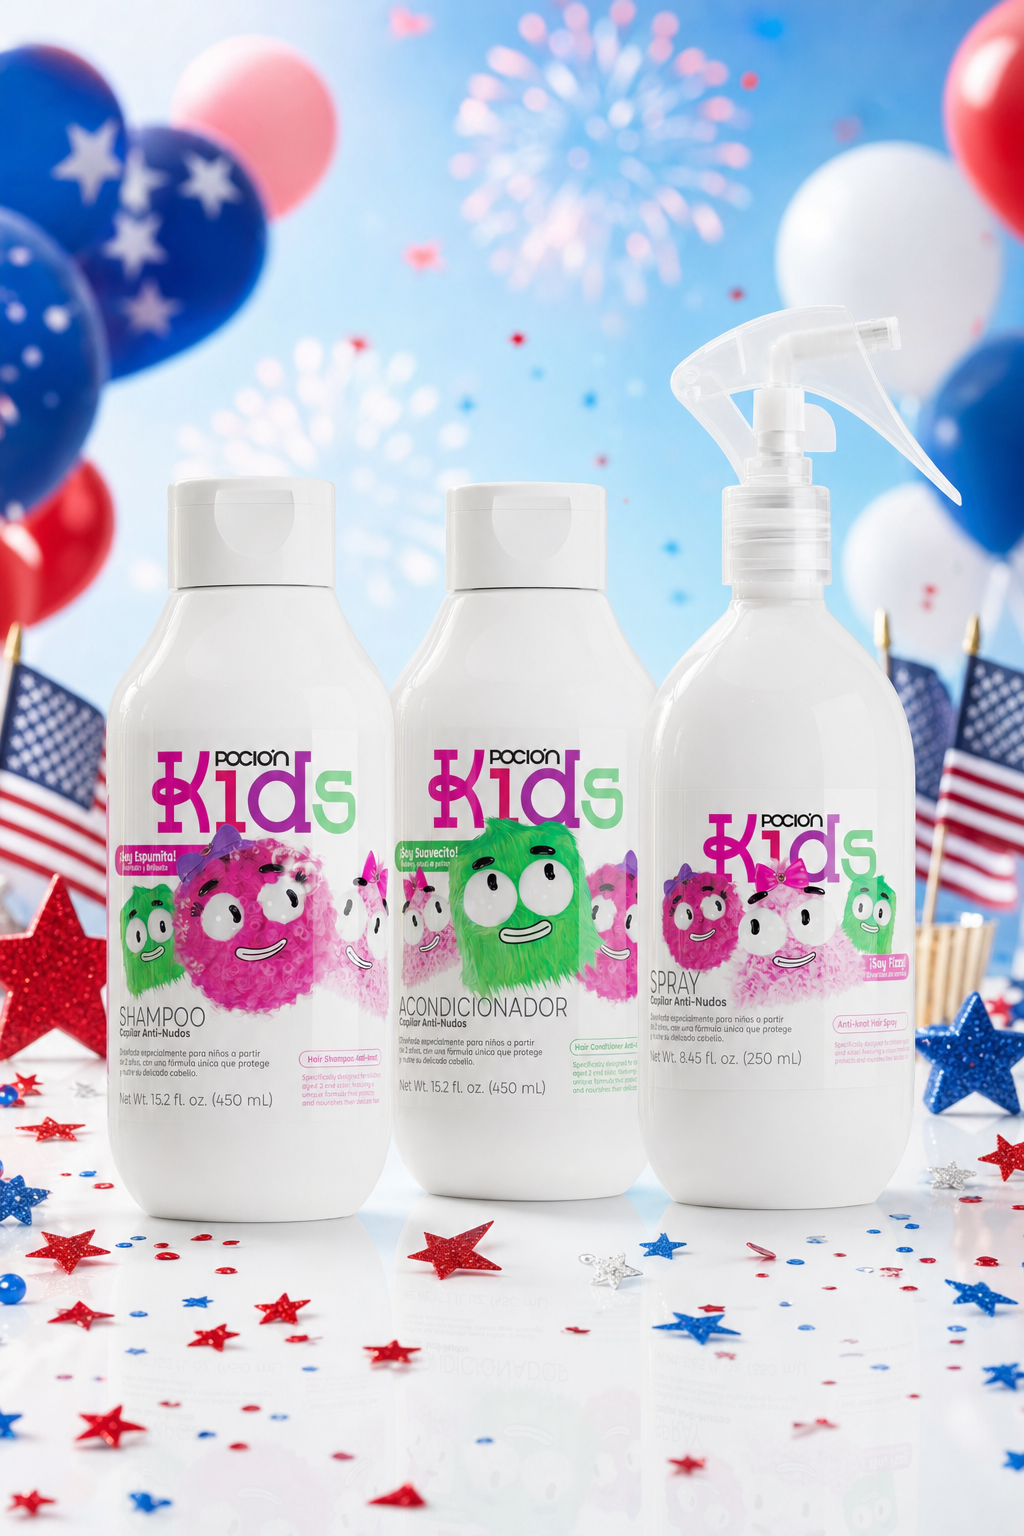
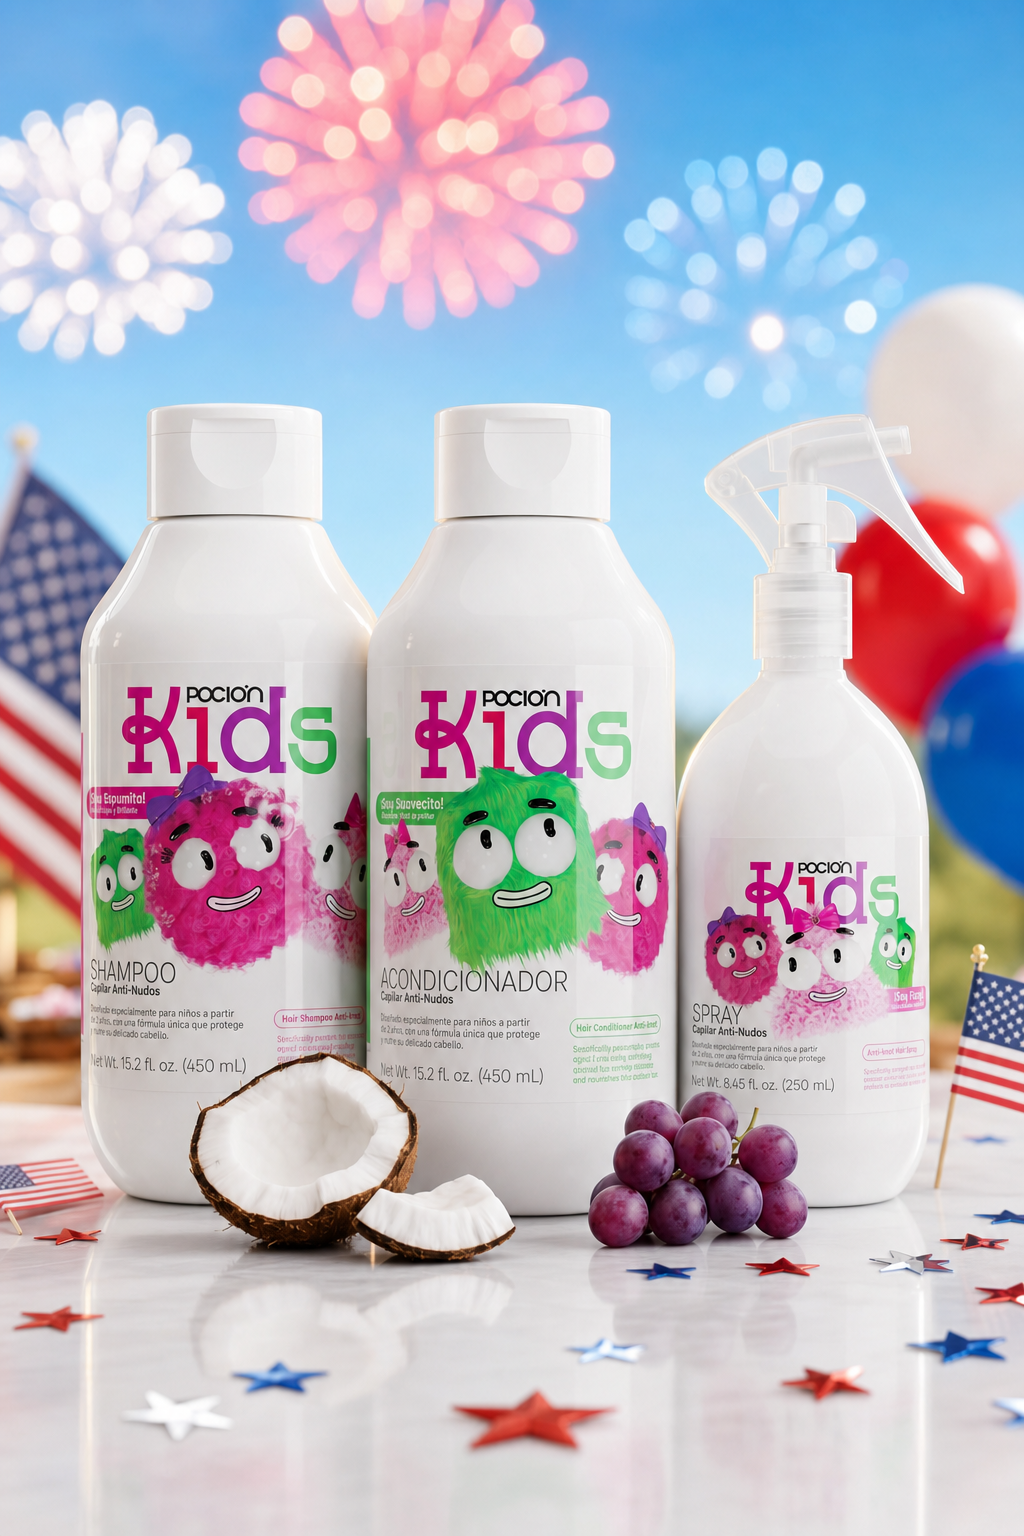
Hero overlay layout + regenerated product imagery
Full-bleed hero with copy overlaid left (Page E pattern, bright F style);
mobile falls back to centered copy + cropped banner. Regenerated 4 kit
shots + hero with GPT Image 2 using Page E compositions as geometry refs
so bottle shapes/sizes match the real products; B8 kit kept as-is.

diff --git a/index.html b/index.html
@@ -98,15 +98,13 @@ footer .logo img{height:28px;filter:brightness(0) invert(1)}
 .btn.ghost{background:rgba(255,255,255,.7);color:var(--navy);border:1.5px solid var(--navy);padding:15px 30px}
 .btn.ghost:hover{background:var(--navy);color:#fff}
 
-/* ---------- HERO ---------- */
-.hero{position:relative;overflow:hidden;isolation:isolate;text-align:center;
+/* ---------- HERO (full-bleed image, copy overlaid left) ---------- */
+.hero{position:relative;overflow:hidden;isolation:isolate;
   background:
-    radial-gradient(120% 90% at 50% -10%,rgba(30,94,255,.14),transparent 55%),
-    radial-gradient(70% 60% at 12% 20%,rgba(224,22,43,.10),transparent 60%),
-    radial-gradient(70% 60% at 88% 16%,rgba(255,184,28,.12),transparent 60%),
-    linear-gradient(180deg,#FFFFFF 0%,var(--ice) 100%)}
-.hero-grid{position:relative;z-index:2;display:flex;flex-direction:column;align-items:center;padding:64px 0 0}
-.hero-copy{position:relative;max-width:880px}
+    linear-gradient(95deg, rgba(247,250,255,.97) 0%, rgba(247,250,255,.9) 30%, rgba(247,250,255,.5) 48%, rgba(247,250,255,0) 64%),
+    url('images/lux/hero-full.png?v=f2') center right / cover no-repeat, var(--ice)}
+.hero-grid{position:relative;z-index:2;display:flex;align-items:center;min-height:min(82vh,760px);padding:50px 0}
+.hero-copy{position:relative;width:56%;max-width:620px;text-align:left}
 .eyebrow{display:inline-flex;align-items:center;gap:.55rem;background:#fff;border:1.5px solid var(--blue);color:var(--blue);padding:9px 20px;border-radius:99px;font-weight:700;font-size:.7rem;letter-spacing:.2em;text-transform:uppercase;box-shadow:0 8px 22px rgba(30,94,255,.15)}
 .hero h1{font-size:clamp(1.6rem,5.4vw,4rem);margin:26px 0 0;color:var(--navy);font-weight:900;line-height:1.06}
 .hero h1 em{background:var(--grad-usa);background-size:200% 100%;-webkit-background-clip:text;background-clip:text;animation:shimmer 5s ease infinite}
@@ -115,20 +113,29 @@ footer .logo img{height:28px;filter:brightness(0) invert(1)}
 .sale-badge b{font-family:'Unbounded';font-weight:700;font-size:1.2rem;color:#fff}
 .sale-badge small{font-weight:600;font-size:.76rem;color:rgba(255,255,255,.85);text-transform:uppercase;letter-spacing:.08em}
 .sale-badge .sb-star{color:var(--gold-soft);font-size:1.05rem}
-.hero .sub{font-size:clamp(1.02rem,1.5vw,1.16rem);font-weight:400;margin:22px auto 0;max-width:52ch;line-height:1.7;color:var(--muted)}
-.hero-cta{display:flex;gap:14px;flex-wrap:wrap;margin-top:30px;justify-content:center}
-.hero-rate{display:flex;align-items:center;gap:12px;margin-top:24px;font-weight:600;justify-content:center}
+.hero .sub{font-size:clamp(1.02rem,1.5vw,1.16rem);font-weight:400;margin:22px 0 0;max-width:46ch;line-height:1.7;color:var(--muted)}
+.hero-cta{display:flex;gap:14px;flex-wrap:wrap;margin-top:30px}
+.hero-rate{display:flex;align-items:center;gap:12px;margin-top:24px;font-weight:600}
 .hero-rate .stars{color:var(--gold);font-size:1rem;letter-spacing:3px}
 .hero-rate b{font-size:1rem;color:var(--navy)}
 .hero-rate small{display:block;font-weight:400;font-size:.76rem;color:var(--muted)}
-.hero-banner{position:relative;z-index:2;width:min(1080px,94vw);margin:42px auto 0;border-radius:var(--r) var(--r) 0 0;overflow:hidden;border:1px solid var(--line);border-bottom:none;box-shadow:var(--shadow)}
+.hero-banner{display:none}
 .hero-banner img{display:block;width:100%;height:auto}
 /* floating parallax stars */
 .par{position:absolute;z-index:1;font-size:1.5rem;opacity:.85;pointer-events:none;animation:float 7s ease-in-out infinite;will-change:transform;filter:drop-shadow(0 6px 14px rgba(10,49,97,.18))}
 .par.s2{animation-delay:1.6s}.par.s3{animation-delay:3.1s}.par.s4{animation-delay:4.5s}
 @keyframes float{0%,100%{margin-top:0}50%{margin-top:-16px}}
 @media(max-width:860px){
-  .hero-grid{padding:46px 0 0}
+  .hero{background:
+    radial-gradient(120% 90% at 50% -10%,rgba(30,94,255,.14),transparent 55%),
+    radial-gradient(70% 60% at 12% 20%,rgba(224,22,43,.10),transparent 60%),
+    linear-gradient(180deg,#FFFFFF 0%,var(--ice) 100%)}
+  .hero-grid{flex-direction:column;text-align:center;min-height:auto;padding:46px 0}
+  .hero-copy{width:100%;max-width:none;text-align:center}
+  .hero-cta,.hero-rate{justify-content:center}
+  .hero .sub{margin-inline:auto}
+  .hero-banner{display:block;max-width:560px;margin:18px auto 0;border-radius:var(--r);overflow:hidden;box-shadow:var(--shadow-sm)}
+  .hero-banner img{width:100%;aspect-ratio:1.25;object-fit:cover;object-position:72% center}
   .par{display:none}
 }
 
@@ -541,11 +548,10 @@ footer .pay{background:transparent;border-color:rgba(255,255,255,.2);color:#9AA9
 
 <!-- HERO -->
 <section class="hero">
-  <span class="par" style="top:14%;left:7%" data-depth="30">🎆</span>
-  <span class="par s2" style="top:30%;left:14%" data-depth="18">⭐</span>
-  <span class="par s3" style="top:12%;right:9%" data-depth="26">🎇</span>
-  <span class="par s4" style="top:34%;right:15%" data-depth="14">⭐</span>
-  <span class="par s2" style="top:6%;left:46%" data-depth="10">🇺🇸</span>
+  <span class="par" style="top:10%;left:4%" data-depth="30">🎆</span>
+  <span class="par s2" style="top:58%;left:3%" data-depth="18">⭐</span>
+  <span class="par s3" style="top:12%;left:58%" data-depth="26">🎇</span>
+  <span class="par s4" style="top:7%;right:6%" data-depth="14">⭐</span>
   <div class="wrap hero-grid">
     <div class="hero-copy">
       <span class="eyebrow">★ The Star-Spangled Hair Event · July 2–5 ★</span>
@@ -561,9 +567,9 @@ footer .pay{background:transparent;border-color:rgba(255,255,255,.2);color:#9AA9
         <div><b>4.8 / 5</b><small>from 12,000+ real reviews</small></div>
       </div>
     </div>
-  </div>
-  <div class="hero-banner reveal">
-    <img src="images/lux/hero-full.png?v=f1" alt="The full La Poción collection under 4th of July fireworks">
+    <div class="hero-banner">
+      <img src="images/lux/hero-full.png?v=f2" alt="The full La Poción collection under 4th of July fireworks">
+    </div>
   </div>
 </section>
 
@@ -675,7 +681,7 @@ footer .pay{background:transparent;border-color:rgba(255,255,255,.2);color:#9AA9
       <!-- KIT 1 -->
       <article class="kit reveal" id="kit-5">
         <div class="kit-media"><div class="kit-badge">★ Best-Seller</div><div class="kit-num">01</div>
-          <div class="tilt"><img src="images/lux/kit-5piece.png?v=f1" alt="5-Piece Deep Repair Ritual"><div class="glare"></div></div></div>
+          <div class="tilt"><img src="images/lux/kit-5piece.png?v=f2" alt="5-Piece Deep Repair Ritual"><div class="glare"></div></div></div>
         <div class="kit-body">
           <span class="kit-tagline">The Headliner</span>
           <h3>5-Piece Deep Repair</h3>
@@ -706,7 +712,7 @@ footer .pay{background:transparent;border-color:rgba(255,255,255,.2);color:#9AA9
       <!-- KIT 2 -->
       <article class="kit reveal" id="kit-4">
         <div class="kit-media"><div class="kit-badge">Strength &amp; Growth</div><div class="kit-num">02</div>
-          <div class="tilt"><img src="images/lux/kit-4piece.png?v=f1" alt="4-Piece Strength & Growth Ritual"><div class="glare"></div></div></div>
+          <div class="tilt"><img src="images/lux/kit-4piece.png?v=f2" alt="4-Piece Strength & Growth Ritual"><div class="glare"></div></div></div>
         <div class="kit-body">
           <span class="kit-tagline">The Daily Anthem</span>
           <h3>4-Piece Strength &amp; Growth</h3>
@@ -737,7 +743,7 @@ footer .pay{background:transparent;border-color:rgba(255,255,255,.2);color:#9AA9
       <!-- KIT 3 -->
       <article class="kit reveal" id="kit-t">
         <div class="kit-media"><div class="kit-badge">Curls' Best Friend</div><div class="kit-num">03</div>
-          <div class="tilt"><img src="images/lux/kit-tongole.png?v=f1" alt="Tongolé Curl Reconstruction Ritual"><div class="glare"></div></div></div>
+          <div class="tilt"><img src="images/lux/kit-tongole.png?v=f2" alt="Tongolé Curl Reconstruction Ritual"><div class="glare"></div></div></div>
         <div class="kit-body">
           <span class="kit-tagline">Let Freedom Spring</span>
           <h3>Tongolé Curl Ritual</h3>
@@ -799,7 +805,7 @@ footer .pay{background:transparent;border-color:rgba(255,255,255,.2);color:#9AA9
       <!-- KIT 5 -->
       <article class="kit reveal" id="kit-k">
         <div class="kit-media"><div class="kit-badge">Tear-Free</div><div class="kit-num">05</div>
-          <div class="tilt"><img src="images/lux/kit-kids.png?v=f1" alt="Kids Tangle-Free Ritual"><div class="glare"></div></div></div>
+          <div class="tilt"><img src="images/lux/kit-kids.png?v=f2" alt="Kids Tangle-Free Ritual"><div class="glare"></div></div></div>
         <div class="kit-body">
           <span class="kit-tagline">The Family Picnic</span>
           <h3>Kids Tangle-Free</h3>
@@ -1010,11 +1016,11 @@ footer .pay{background:transparent;border-color:rgba(255,255,255,.2);color:#9AA9
         <p style="margin-top:8px;max-width:34ch">Colombia's #1 hair ritual, now shipping across the USA. Made with love. 🇨🇴</p>
       </div>
       <div class="foot-col"><h5>Shop</h5>
-        <a href="#kit-5" class="foot-shop"><img src="images/lux/kit-5piece.png?v=f1" alt="">Deep Repair</a>
-        <a href="#kit-4" class="foot-shop"><img src="images/lux/kit-4piece.png?v=f1" alt="">Strength &amp; Growth</a>
-        <a href="#kit-t" class="foot-shop"><img src="images/lux/kit-tongole.png?v=f1" alt="">Tongolé Curls</a>
+        <a href="#kit-5" class="foot-shop"><img src="images/lux/kit-5piece.png?v=f2" alt="">Deep Repair</a>
+        <a href="#kit-4" class="foot-shop"><img src="images/lux/kit-4piece.png?v=f2" alt="">Strength &amp; Growth</a>
+        <a href="#kit-t" class="foot-shop"><img src="images/lux/kit-tongole.png?v=f2" alt="">Tongolé Curls</a>
         <a href="#kit-b8" class="foot-shop"><img src="images/lux/kit-b8.png?v=f1" alt="">B8 Infinite Shine</a>
-        <a href="#kit-k" class="foot-shop"><img src="images/lux/kit-kids.png?v=f1" alt="">Kids Tangle-Free</a>
+        <a href="#kit-k" class="foot-shop"><img src="images/lux/kit-kids.png?v=f2" alt="">Kids Tangle-Free</a>
       </div>
       <div class="foot-col"><h5>Help</h5><a href="#faq">FAQ</a><a href="#">Shipping &amp; Returns</a><a href="#">Track My Order</a><a href="#">Contact Us</a></div>
       <div class="foot-col"><h5>Brand</h5><a href="#science">Ingredients</a><a href="#results">Results</a><a href="#story">Our Story</a><a href="#quiz">Find Your Ritual</a></div>
@@ -1092,7 +1098,7 @@ function track(ev,data){ if(window.fbq){ fbq('track',ev,data); } console.log('[t
 /* ===================== CART + UPSELLS ===================== */
 var SHIP_FREE=50;
 var IMG={
-  'B0DSGYPPD7':'images/lux/kit-5piece.png?v=f1','B0DCYQV7XJ':'images/lux/kit-4piece.png?v=f1','B0DCZ1SLJK':'images/lux/kit-tongole.png?v=f1','B0DCZ64HBD':'images/lux/kit-b8.png?v=f1','B0FV7VB3TW':'images/lux/kit-kids.png?v=f1',
+  'B0DSGYPPD7':'images/lux/kit-5piece.png?v=f2','B0DCYQV7XJ':'images/lux/kit-4piece.png?v=f2','B0DCZ1SLJK':'images/lux/kit-tongole.png?v=f2','B0DCZ64HBD':'images/lux/kit-b8.png?v=f1','B0FV7VB3TW':'images/lux/kit-kids.png?v=f2',
   'ADDON-BOOSTER':'images/upsell/booster.webp','ADDON-TERMO':'images/upsell/termoprotector.webp','ADDON-OIL':'images/upsell/b8oil.png','ADDON-R3START':'images/upsell/r3start.png'
 };
 var ADDONS=[
@@ -1114,7 +1120,7 @@ function closeCart(){cartEl.classList.remove('show');cartOv.classList.remove('sh
 function toast(msg){var t=document.getElementById('toast');t.textContent=msg;t.classList.add('show');clearTimeout(t._h);t._h=setTimeout(function(){t.classList.remove('show');},2200);}
 function addToCart(id,name,price,sub){
   var ex=cart.find(function(i){return i.id===id;});
-  if(ex){ex.qty++;} else {cart.push({id:id,name:name,sub:sub||'',price:price,qty:1,img:IMG[id]||'images/lux/kit-5piece.png?v=f1'});}
+  if(ex){ex.qty++;} else {cart.push({id:id,name:name,sub:sub||'',price:price,qty:1,img:IMG[id]||'images/lux/kit-5piece.png?v=f2'});}
   track('AddToCart',{content_name:name,content_ids:[id],value:price,currency:'USD',content_type:'product'});
   renderCart();
 }
